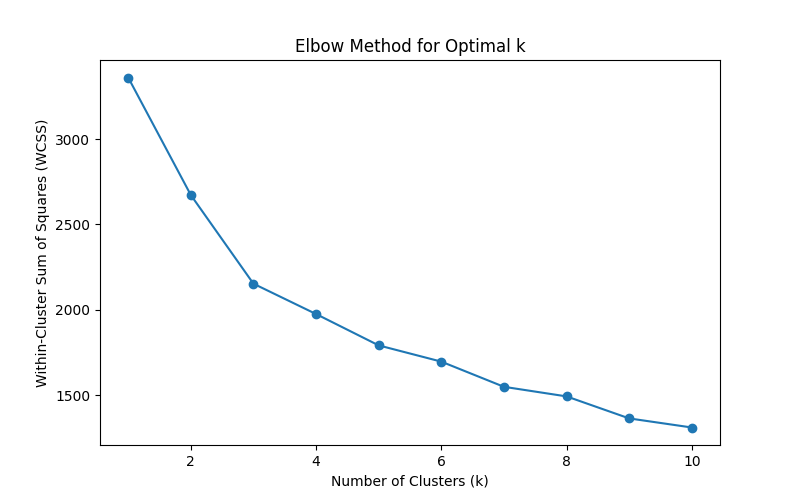
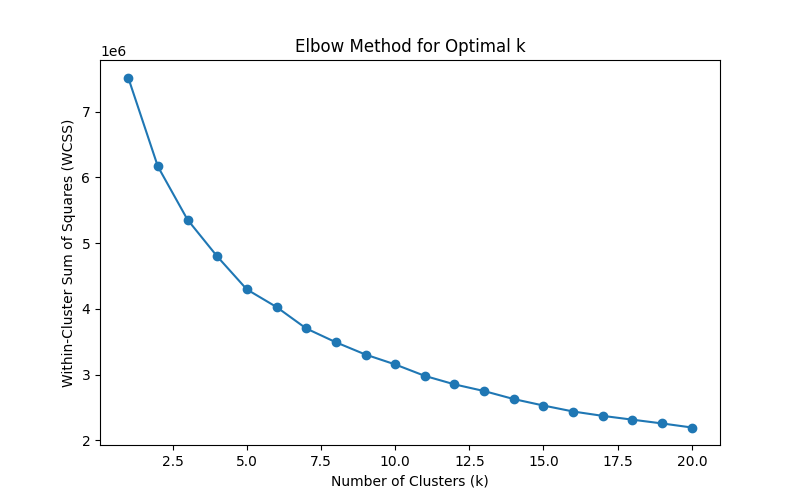
new elbow curve produced from entire IDEA dataset

diff --git a/clustering.py b/clustering.py
@@ -123,7 +123,7 @@ def classify_time_series(num_clusters):
     DataFrame: DataFrame with cluster labels
     """
     feature_df, features_scaled = scale_features()
-    kmeans = KMeans(n_clusters=num_clusters, random_state=2)
+    kmeans = KMeans(n_clusters=num_clusters, random_state=42)
     clusters = kmeans.fit_predict(features_scaled)
     feature_df['cluster'] = clusters
     
@@ -164,8 +164,8 @@ def main():
     path = os.path.join(DATA_DIR, DATA_FILE)
     df = grn.filter_df(path)
     grn.extract_expression_data(df)
-    elbow_curve()
-    # classify_time_series(7)
+    # elbow_curve()
+    classify_time_series(7)
     print("finished running")
 
 if __name__ == '__main__':

diff --git a/grn_search.py b/grn_search.py
@@ -54,4 +54,6 @@ def path_search(start=None, end=None, sign=None):
         paths += f"{path}\n"
     print(paths)
 
+
+
 path_search(start='ACE2', end='ACE2')
